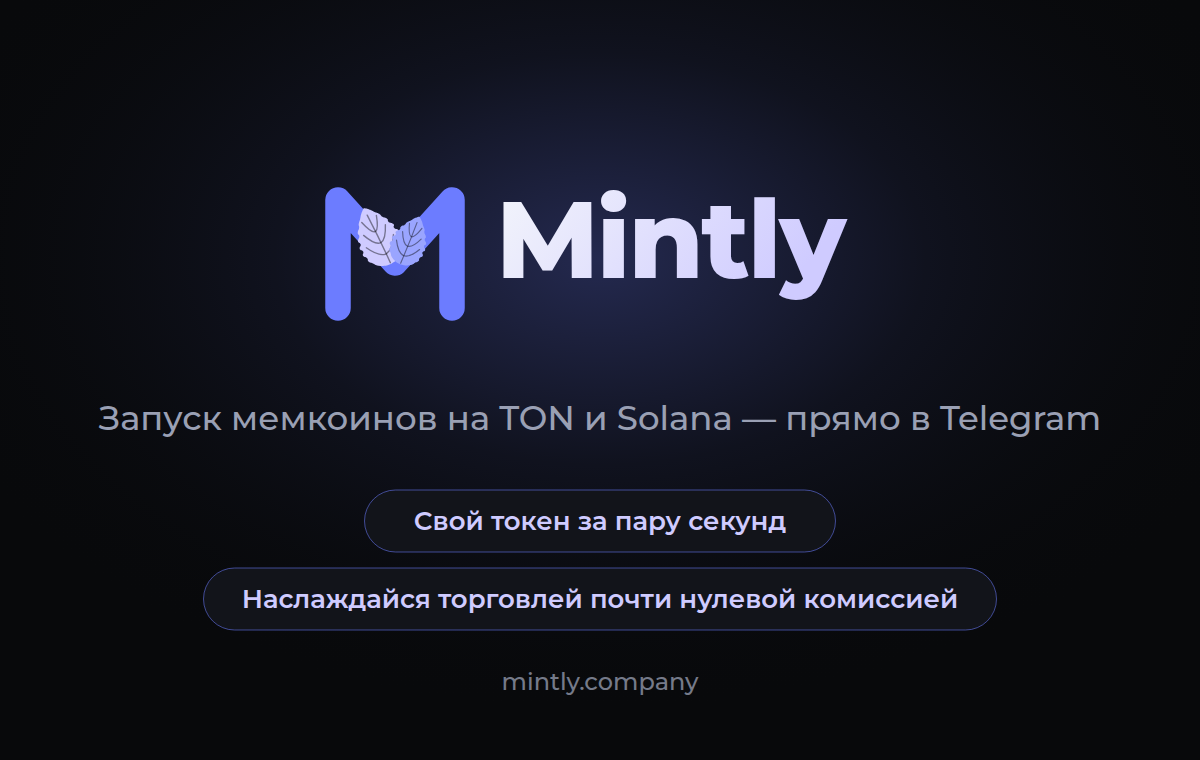
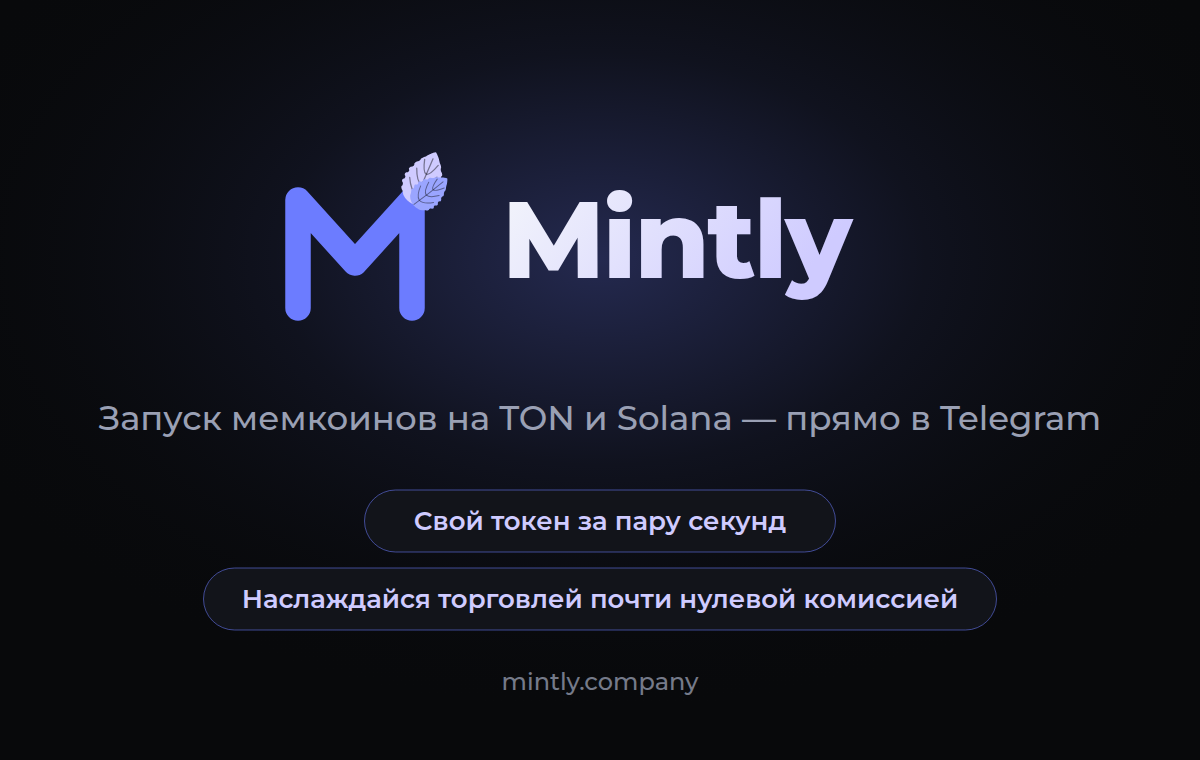
Листья торчат из угла буквы
Во впадине они прятались между штрихами и читались пятном. Теперь растут
из верхнего правого угла наружу; текст отодвинут — листья выходят за
край знака и упирались в слово.

Claude-Session: https://claude.ai/code/session_012dgtbmCBimMGEXv6Efga8R

Changed region(s): [[0.2158, 0.1816, 0.7092, 0.4237]]

diff --git a/api/telegram-bot.js b/api/telegram-bot.js
@@ -1472,7 +1472,7 @@ async function handleWalletSet(message, аргумент) {
 /* Telegram запоминает загруженное фото по ссылке и на ту же ссылку
    отдаёт старую картинку, сколько её ни перерисовывай. Поэтому в адресе
    стоит номер: перерисовал баннер — подними его на единицу. */
-const БАННЕР_ВЕРСИЯ = 10;
+const БАННЕР_ВЕРСИЯ = 11;
 
 const ПРИВЕТСТВИЕ =
   "Mintly — запуск токенов в Telegram.\n\nЗдесь можно смотреть цены, покупать и продавать, не выходя из переписки: /menu\n\nВопрос или поломка — «Профиль» → «Поддержка» в приложении.";
